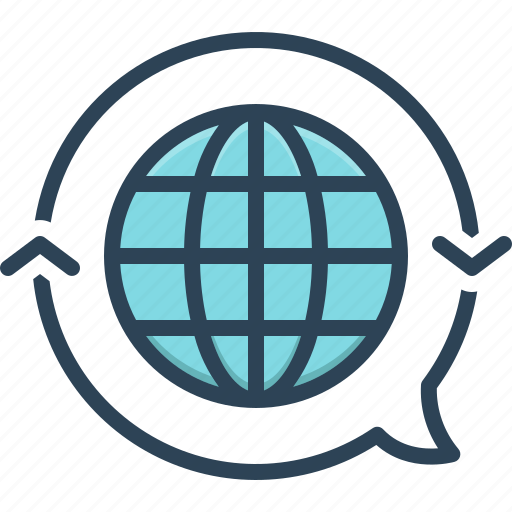
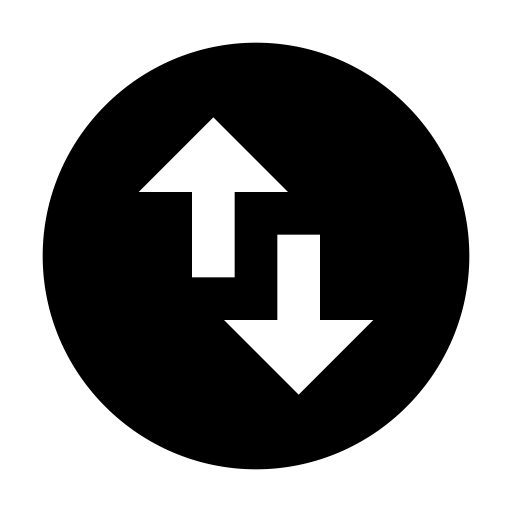
Updates
> Put different icon on dark mode

diff --git a/main.py b/main.py
@@ -108,16 +108,16 @@ class TranslatorApp(App):
         
         button_layout = BoxLayout(size_hint=(1, 0.2), spacing=10)
         
-        self.translate_button = Image(source="translate_icon.png", size_hint=(0.2, 1))
+        self.translate_button = Image(source="assets/translate_icon.png", size_hint=(0.2, 1))
         self.translate_button.bind(on_touch_down=self.manual_translate)
         button_layout.add_widget(self.translate_button)
         
-        self.control_button = Image(source="mic_icon.png", size_hint=(0.2, 1))
+        self.control_button = Image(source="assets/mic_icon.png", size_hint=(0.2, 1))
         self.control_button.bind(on_touch_down=self.on_button_down)
         self.control_button.bind(on_touch_up=self.on_button_up)
         button_layout.add_widget(self.control_button)
         
-        self.speak_button = Image(source="speaker_icon.png", size_hint=(0.2, 1))
+        self.speak_button = Image(source="assets/speaker_icon.png", size_hint=(0.2, 1))
         self.speak_button.bind(on_touch_down=self.speak_translation_output)
         button_layout.add_widget(self.speak_button)
         
@@ -128,6 +128,23 @@ class TranslatorApp(App):
         main_layout.add_widget(self.dark_mode_toggle)
         
         return main_layout
+    
+    def toggle_dark_mode(self, instance):
+        self.dark_mode = not self.dark_mode
+        color = (0, 0, 0, 1) if self.dark_mode else (1, 1, 1, 1)
+        with self.root.canvas.before:
+            Color(*color)
+            self.rect = Rectangle(size=self.root.size, pos=self.root.pos)
+            self.root.bind(size=self._update_rect, pos=self._update_rect)
+        
+        if self.dark_mode:
+            self.control_button.source = "assets/mic_icon_gray.png"
+            self.speak_button.source = "assets/speaker_icon_gray.png"
+            self.translate_button.source = "assets/translate_icon_gray.png"
+        else:
+            self.control_button.source = "assets/mic_icon.png"
+            self.speak_button.source = "assets/speaker_icon.png"
+            self.translate_button.source = "assets/translate_icon.png"
     
     def _update_rect(self, instance, value):
         self.rect.size = instance.size
@@ -155,13 +172,13 @@ class TranslatorApp(App):
             if text:
                 speak_translation(text)
     
-    def toggle_dark_mode(self, instance):
-        self.dark_mode = not self.dark_mode
-        color = (0, 0, 0, 1) if self.dark_mode else (1, 1, 1, 1)
-        with self.root.canvas.before:
-            Color(*color)
-            self.rect = Rectangle(size=self.root.size, pos=self.root.pos)
-            self.root.bind(size=self._update_rect, pos=self._update_rect)
+    # def toggle_dark_mode(self, instance):
+    #     self.dark_mode = not self.dark_mode
+    #     color = (0, 0, 0, 1) if self.dark_mode else (1, 1, 1, 1)
+    #     with self.root.canvas.before:
+    #         Color(*color)
+    #         self.rect = Rectangle(size=self.root.size, pos=self.root.pos)
+    #         self.root.bind(size=self._update_rect, pos=self._update_rect)
 
 if __name__ == "__main__":
     app = TranslatorApp()
